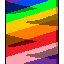
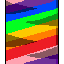
a szivarvany kigyo rendes teste kesz

diff --git a/KP-SnakeProjekt/Skins.xaml b/KP-SnakeProjekt/Skins.xaml
@@ -201,10 +201,10 @@
                                     CornerRadius="10" Background="#161b22"
                                     BorderBrush="#1f2937" BorderThickness="2">
                             <StackPanel VerticalAlignment="Center" HorizontalAlignment="Center">
-                                <Image Source="pack://application:,,,/img/Skins/snakebodyYG.png"
+                                <Image Source="pack://application:,,,/img/Skins/snakebodyRBW.png"
                                            Width="48" Height="48" Margin="0,0,0,0"
                                            RenderOptions.BitmapScalingMode="NearestNeighbor"/>
-                                <Image Source="/img/Skins/easteregghead.png"
+                                <Image Source="/img/Skins/snakeheadRBW.png"
                                            Width="48" Height="48" Margin="0,0,0,12"
                                            RenderOptions.BitmapScalingMode="NearestNeighbor"/>
                                 <TextBlock Text="SZIVÁRVÁNY" Foreground="#4ade80"